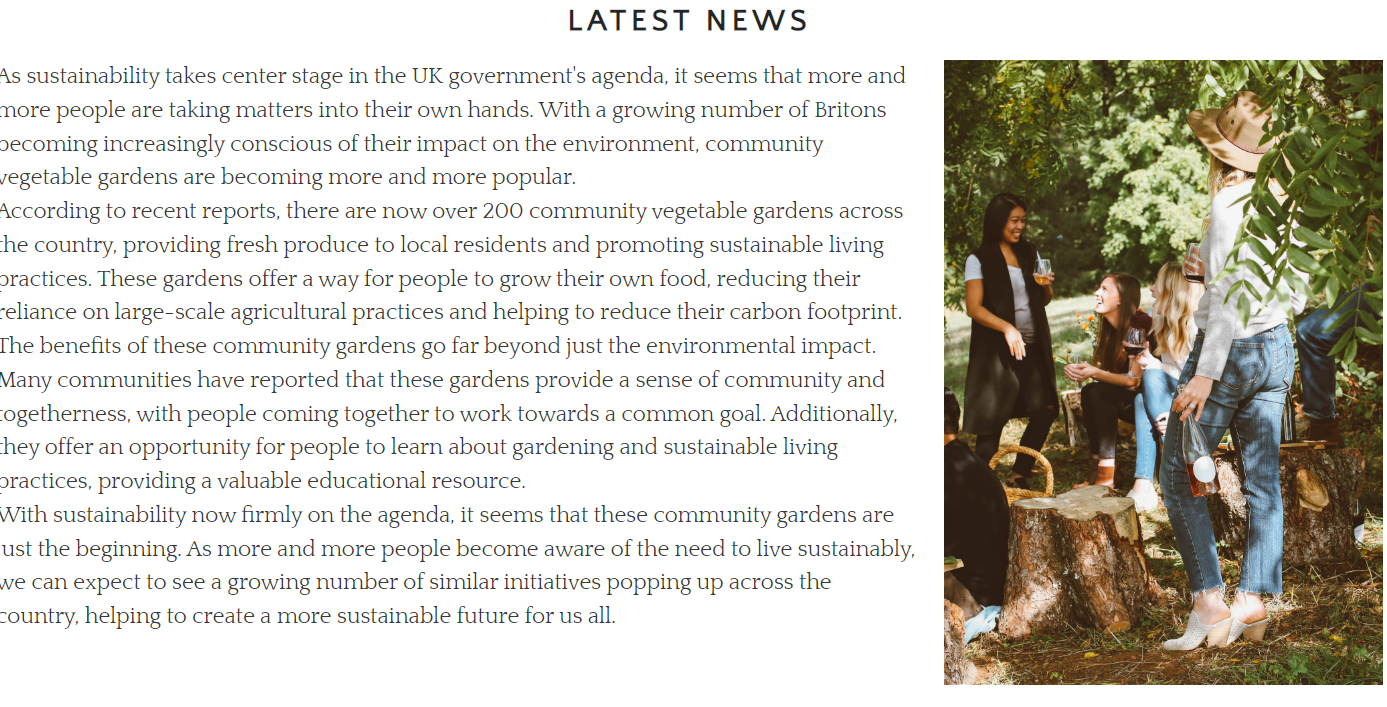
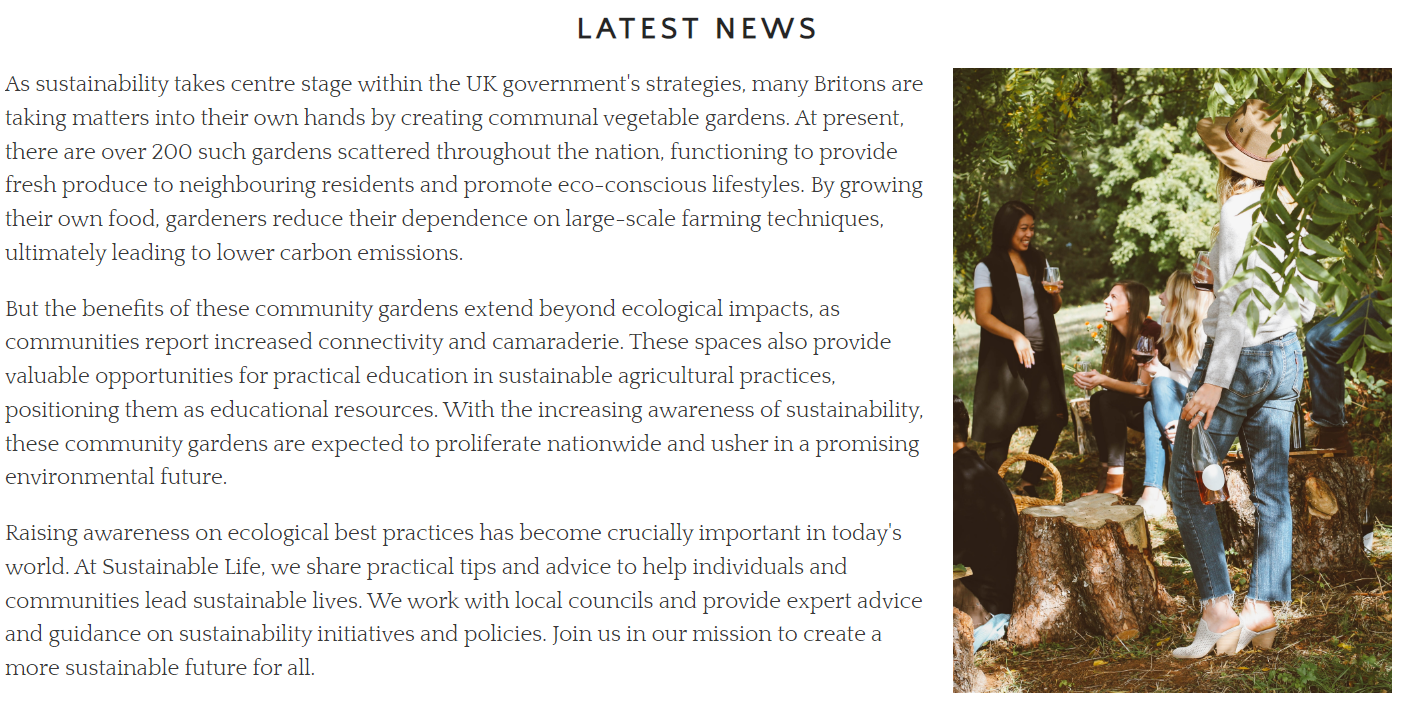
update news section image in readme

diff --git a/index.html b/index.html
@@ -77,11 +77,11 @@
 						<img id="news-img" src="./assets/images/news-image.jpg" alt="community garden gathering">
 					</div>
 					<div class="articl-content">
-						<p class="news-text">As sustainability becomes a focal point for the UK government's strategies, many Britons are taking action into their own hands. With greater numbers recognizing their responsibility towards the environment, communal vegetable gardens are quickly becoming popular sites within communities.</p>
+						<p class="news-text">As sustainability takes centre stage within the UK government's strategies, many Britons are taking matters into their own hands by creating communal vegetable gardens. At present, there are over 200 such gardens scattered throughout the nation, functioning to provide fresh produce to neighbouring residents and promote eco-conscious lifestyles. By growing their own food, gardeners reduce their dependence on large-scale farming techniques, ultimately leading to lower carbon emissions.</p>
 						<br>
-						<p class="news-text">At present, there exist over 200 such gardens scattered about the nation - functioning both to furnish fresh harvests to neighboring residents and promote eco-conscious practices. By planting their own foods, gardeners reduce dependence on large-scale farming techniques that often result in substantial amounts of carbon emissions. </p>
+						<p class="news-text">But the benefits of these community gardens extend beyond ecological impacts, as communities report increased connectivity and camaraderie. These spaces also provide valuable opportunities for practical education in sustainable agricultural practices, positioning them as educational resources. With the increasing awareness of sustainability, these community gardens are expected to proliferate nationwide and usher in a promising environmental future.</p>
 						<br>
-						<p class="news-text">The benefits of community gardens extend beyond ecological impacts as communities report increased connectivity and camaraderie. These spaces also provide opportunities for practical education in sustainable agricultural practices, positioning them as valuable resources. A surge in sustainability awareness projects further proliferation of these initiatives nationwide; ushering in a promising environmental future.</p>
+						<p class="news-text">Raising awareness on ecological best practices has become crucially important in today's world. At Sustainable Life, we share practical tips and advice to help individuals and communities lead sustainable lives. We work with local councils and provide expert advice and guidance on sustainability initiatives and policies. Join us in our mission to create a more sustainable future for all.</p>
 					</div>
 				</div>
 				<br>

diff --git a/assets/css/style.css b/assets/css/style.css
@@ -123,7 +123,7 @@ h2 {
 .article-image img {
   display: block;
   max-width: 100%;
-  max-height: 400px;
+  max-height: 500px;
 }
 .article-content {
   overflow: hidden;
